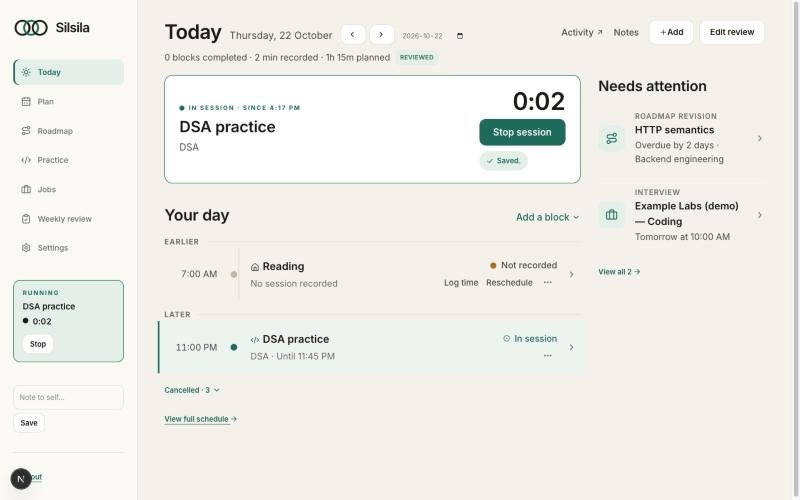
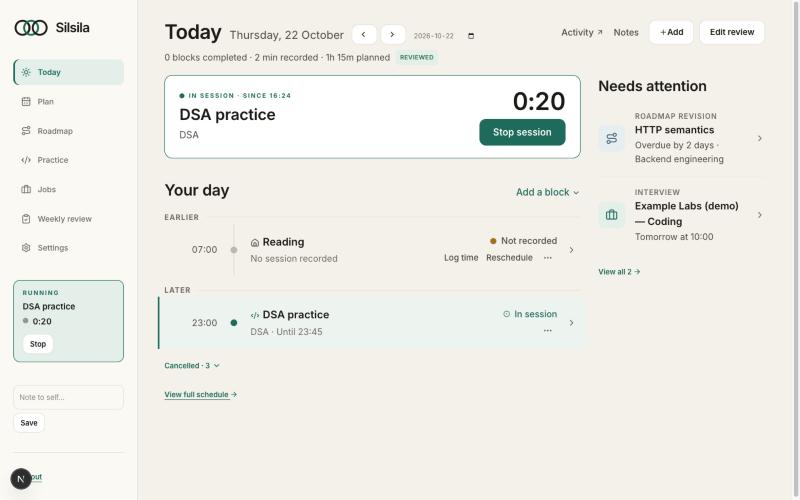
style(today): 24-hour times, source-coloured attention tiles and the reference date style

diff --git a/src/features/today/agenda.tsx b/src/features/today/agenda.tsx
@@ -18,12 +18,13 @@ import {
   ManualSessionForm,
 } from '@/features/schedule/forms';
 import { categoryGroup } from '@/features/review/domain';
-import { clock, dayKey, minutes } from '@/lib/time';
+import { dayKey, minutes } from '@/lib/time';
 import type { ActualSession, TimeBlock } from '@/generated/prisma/client';
 import {
   blockResolution,
   formatDuration,
   groupAgenda,
+  hhmm,
   resolutionText,
   type AgendaEntry,
   type RoundLike,
@@ -148,7 +149,7 @@ export function Agenda(props: Props) {
 function RoundRow({ round, zone }: { round: RoundLike; zone: string }) {
   return (
     <li className="agenda-row is-interview">
-      <span className="agenda-time">{clock(round.scheduledStart, zone)}</span>
+      <span className="agenda-time">{hhmm(round.scheduledStart, zone)}</span>
       <span className="agenda-dot" aria-hidden="true" />
       <div className="agenda-body">
         <h3 className="agenda-title">
@@ -158,7 +159,7 @@ function RoundRow({ round, zone }: { round: RoundLike; zone: string }) {
         <p className="agenda-meta">
           Interview
           {round.scheduledEnd
-            ? ` · Until ${clock(round.scheduledEnd, zone)}`
+            ? ` · Until ${hhmm(round.scheduledEnd, zone)}`
             : ''}
           {' · not on your schedule'}
         </p>
@@ -229,7 +230,7 @@ function BlockRow({
           : resolution === 'skipped'
             ? `Skipped${block.skipReason ? `: ${block.skipReason}` : ''}`
             : resolution === 'current' || resolution === 'in-progress'
-              ? `${context} · Until ${clock(block.plannedEnd, zone)}`
+              ? `${context} · Until ${hhmm(block.plannedEnd, zone)}`
               : `${context} · ${formatDuration(planned)}`;
   const panelMeta = [
     round ? `${round.company} · Interview` : categoryGroup(block.category),
@@ -241,7 +242,7 @@ function BlockRow({
       className={`agenda-row is-${resolution}${unresolved ? ' is-unresolved' : ''}`}
     >
       <span className="agenda-time">
-        {clock(block.plannedStart, zone)}
+        {hhmm(block.plannedStart, zone)}
         {dayKey(block.plannedEnd, zone) !== day && (
           <span className="sr-only">
             {' '}
@@ -303,7 +304,7 @@ function BlockRow({
       </div>
       <SidePanel id={panelId} title={block.title}>
         <p className="muted">
-          {clock(block.plannedStart, zone)}–{clock(block.plannedEnd, zone)} ·{' '}
+          {hhmm(block.plannedStart, zone)}–{hhmm(block.plannedEnd, zone)} ·{' '}
           {panelMeta}
         </p>
         {block.description && <p>{block.description}</p>}

diff --git a/src/features/today/domain.ts b/src/features/today/domain.ts
@@ -3,7 +3,12 @@
  * with their linked-interview identity, and the "needs attention" queue. No I/O, no
  * component code; everything here is covered by tests/today-domain.test.ts.
  */
-import { clock, dayKey, minutes, shortDate, weekdayDate } from '@/lib/time';
+import { dayKey, minutes, shortDate, weekdayDate } from '@/lib/time';
+import { formatInTimeZone } from 'date-fns-tz';
+
+/** Today reads times as "06:00" and "19:30", as the reference does. */
+export const hhmm = (date: Date, zone: string) =>
+  formatInTimeZone(date, zone, 'HH:mm');
 import type { Attention } from '@/features/jobs/domain';
 
 export type SessionLike = { id: string; startedAt: Date; endedAt: Date | null };
@@ -341,7 +346,7 @@ export function attentionItems(input: AttentionInput): AttentionItem[] {
         source: 'interview-prep',
         label: 'Interview prep',
         title: `${r.company} — ${r.title}`,
-        context: `Today at ${clock(r.scheduledStart, zone)} · ${r.openPrep} prep item${r.openPrep === 1 ? '' : 's'} open`,
+        context: `Today at ${hhmm(r.scheduledStart, zone)} · ${r.openPrep} prep item${r.openPrep === 1 ? '' : 's'} open`,
         href: `/jobs/${r.applicationId}#round-${r.id}`,
         tier: 1,
         due: +r.scheduledStart,
@@ -401,7 +406,7 @@ export function attentionItems(input: AttentionInput): AttentionItem[] {
           source: 'job',
           label: 'Interview',
           title: `${app.company} — ${reason.round.title}`,
-          context: `${isToday ? 'Today' : 'Tomorrow'} at ${clock(reason.round.scheduledStart, zone)}`,
+          context: `${isToday ? 'Today' : 'Tomorrow'} at ${hhmm(reason.round.scheduledStart, zone)}`,
           href: `/jobs/${app.id}#round-${reason.round.id}`,
           tier: isToday ? 3 : 4,
           due: +reason.round.scheduledStart,
@@ -471,7 +476,7 @@ export function attentionItems(input: AttentionInput): AttentionItem[] {
       source: 'notification',
       label: 'Reminder',
       title: n.title,
-      context: `${weekdayDate(dayKey(n.scheduledFor, zone))} · ${clock(n.scheduledFor, zone)}`,
+      context: `${weekdayDate(dayKey(n.scheduledFor, zone))} · ${hhmm(n.scheduledFor, zone)}`,
       href: null,
       tier: 3,
       due: +n.scheduledFor,

diff --git a/src/features/today/launcher.tsx b/src/features/today/launcher.tsx
@@ -6,9 +6,9 @@ import { LiveTimer } from '@/features/execution/live';
 import { stopUnlinkedAction } from '@/features/schedule/actions';
 import { ExecutionControls } from '@/features/schedule/forms';
 import { categoryGroup } from '@/features/review/domain';
-import { clock } from '@/lib/time';
+
 import type { TimeBlock } from '@/generated/prisma/client';
-import type { LauncherState, RoundLike } from './domain';
+import { hhmm, type LauncherState, type RoundLike } from './domain';
 import { PressButton } from './panels';
 
 const startsIn = (d: Date, now: Date) => {
@@ -60,7 +60,7 @@ export function Launcher({
   if (state.kind === 'running') {
     const block = state.block ? full(state.block.id) : null;
     const round = roundOf(block);
-    eyebrow = `In session · Since ${clock(state.session.startedAt, zone)}`;
+    eyebrow = `In session · Since ${hhmm(state.session.startedAt, zone)}`;
     title =
       state.session.title ??
       block?.title ??
@@ -103,11 +103,11 @@ export function Launcher({
       )
       .sort((a, b) => +a.plannedStart - +b.plannedStart)[0];
     if (after)
-      next = `Next: ${after.title} · ${clock(after.plannedStart, zone)}`;
+      next = `Next: ${after.title} · ${hhmm(after.plannedStart, zone)}`;
   } else if (state.kind === 'current' || state.kind === 'next') {
     const block = full(state.block.id)!;
     const round = roundOf(block);
-    eyebrow = `${state.kind === 'current' ? 'Now' : 'Next'} · ${clock(block.plannedStart, zone)}–${clock(block.plannedEnd, zone)}`;
+    eyebrow = `${state.kind === 'current' ? 'Now' : 'Next'} · ${hhmm(block.plannedStart, zone)}–${hhmm(block.plannedEnd, zone)}`;
     title = block.title;
     context = (
       <>
@@ -119,7 +119,7 @@ export function Launcher({
     );
     action = <ExecutionControls block={block} current launcher primaryOnly />;
     if (state.kind === 'current' && state.next)
-      next = `Next: ${state.next.title} · ${clock(state.next.plannedStart, zone)}`;
+      next = `Next: ${state.next.title} · ${hhmm(state.next.plannedStart, zone)}`;
   } else if (state.kind === 'reconcile') {
     eyebrow = 'Earlier today';
     title = 'Update earlier blocks';

diff --git a/src/app/globals.css b/src/app/globals.css
@@ -3288,7 +3288,8 @@ span > svg {
   letter-spacing: -0.02em;
 }
 .today-date {
-  font-size: 18px;
+  font-size: 20px;
+  font-weight: 400;
   color: var(--ink-2);
 }
 .today-title .day-nav {
@@ -3804,14 +3805,35 @@ a.attention-link:hover .attention-title {
   width: 48px;
   height: 48px;
   border-radius: 12px;
-  background: var(--tint);
-  color: var(--primary);
+  background: var(--tile-bg, var(--tint));
+  color: var(--tile-fg, var(--primary));
   display: inline-flex;
   align-items: center;
   justify-content: center;
 }
 .attention-count.is-phone {
   display: none;
+}
+/* One tint per source, as the owner's reference colours them. */
+.attention-row[data-source='practice'] {
+  --tile-bg: #eee6f7;
+  --tile-fg: #5b3e8e;
+}
+.attention-row[data-source='roadmap'] {
+  --tile-bg: var(--info-bg);
+  --tile-fg: var(--info-text);
+}
+.attention-row[data-source='notification'] {
+  --tile-bg: var(--warning-bg);
+  --tile-fg: var(--warning-text);
+}
+.attention-row[data-source='weekly'] {
+  --tile-bg: var(--success-bg);
+  --tile-fg: var(--success-text);
+}
+.dark .attention-row[data-source='practice'] {
+  --tile-bg: #2b2338;
+  --tile-fg: #b9a3dc;
 }
 .attention-main {
   display: grid;

diff --git a/tests/today-domain.test.ts b/tests/today-domain.test.ts
@@ -376,7 +376,7 @@ describe('needs attention', () => {
     expect(items[1].context).toBe('Overdue by 2 days');
     expect(items[2].context).toBe('Overdue by 1 day · Yellow');
     expect(items[4].context).toBe('Due today · Backend');
-    expect(items[0].context).toBe('Today at 4:00 PM · 2 prep items open');
+    expect(items[0].context).toBe('Today at 16:00 · 2 prep items open');
   });
   it('merges a reminder into the row keyed on the same entity and keeps its id', () => {
     const prep = round({

diff --git a/docs/WI-020-HANDOFF.md b/docs/WI-020-HANDOFF.md
@@ -4,11 +4,11 @@ Branch `feat/wi-020-today-agenda` from `main` at `be59255` (WI-019 merged, PR #2
 
 ## 1. Outcome
 
-- **Header.** "Today" (or "Past day" / "Upcoming day") with the date beside it and compact day navigation on the same line, and the utilities Activity ↗ · Notes (with the open count) · Review day (or Edit review once saved); under 1100 px they sit behind a labelled More. One factual line: "1 block completed · 59 min recorded · 2h 15m planned" (all categories, cancelled blocks excluded, clipped to the local day, a running session counted to now, sessions counted once). "Add a block" sits in the "Your day" heading as a link, with its `N` shortcut and its draft key.
-- **Launcher.** One compact surface, the primary action on the right with the live timer stacked above it while a session runs, a divider and the "Next: …" line under the context, and a fixed child order: a running session ("In session · Since 3:24 PM", the live timer, "Stop session"), else the eligible block covering now ("Now · 10:00–10:30 AM", "Start session", "Open prep" for an interview, "Next: …"), else the next eligible block ("Starts in 40 min", Start session allowed early), else "Update earlier blocks" when past blocks still need a decision, else a quiet "Nothing more planned" with Add a block. Secondary actions sit behind More. Running identity comes from the session record, so a reviewed day with a running session still shows the running controls.
-- **Agenda ("Your day").** An open list with a time gutter and a timeline rail with a dot per row (filled when done, teal when current, hollow later), grouped Earlier / Now / Later on today only (non-empty groups, each label with a rule, the Now rule in teal), the current block on a light teal wash with a narrow accent rule, completed rows quieter; each row shows the start time, the title with a neutral category icon, one meta line ("45 min recorded", "No session recorded", "Two pointers · 60 min", "Example Labs · Until 10:30 AM"), a status with an icon on the right (a check for Done, an amber dot for Not recorded, a teal dot for In session) and a chevron that opens the details panel; "View full schedule →" closes the list. A past block without a decision reads "Not recorded" (no session) or "Recorded · Needs update" (sessions exist) and offers Log time, Reschedule and More; skipped and cancelled blocks are never "missed". More exposes Complete, Skip and Cancel block with labels; Skip asks for its reason only after Skip is chosen. Cancelled blocks sit in a collapsed "Cancelled · N" disclosure with Reset and Details. Each row has a Details button; the row the launcher already controls has no second Start/Stop.
+- **Header.** "Today" (or "Past day" / "Upcoming day") with the date beside it (20 px, regular weight) and quiet day navigation on the same line, and the utilities Activity ↗ · Notes (with the open count) · Review day (or Edit review once saved); under 1100 px they sit behind a labelled More. One factual line: "1 block completed · 59 min recorded · 2h 15m planned" (all categories, cancelled blocks excluded, clipped to the local day, a running session counted to now, sessions counted once). "Add a block" sits in the "Your day" heading as a link, with its `N` shortcut and its draft key.
+- **Launcher.** One compact surface, the primary action on the right with the live timer stacked above it while a session runs, a divider and the "Next: …" line under the context, and a fixed child order: a running session ("In session · Since 15:24", the live timer, "Stop session"), else the eligible block covering now ("Now · 10:00–10:30", "Start session", "Open prep" for an interview, "Next: …"), else the next eligible block ("Starts in 40 min", Start session allowed early), else "Update earlier blocks" when past blocks still need a decision, else a quiet "Nothing more planned" with Add a block. Secondary actions sit behind More. Running identity comes from the session record, so a reviewed day with a running session still shows the running controls.
+- **Agenda ("Your day").** An open list with a time gutter and a timeline rail with a dot per row (filled when done, teal when current, hollow later), grouped Earlier / Now / Later on today only (non-empty groups, each label with a rule, the Now rule in teal), the current block on a light teal wash with a narrow accent rule, completed rows quieter; each row shows the start time, the title with a neutral category icon, one meta line ("45 min recorded", "No session recorded", "Two pointers · 60 min", "Example Labs · Until 10:30"), a status with an icon on the right (a check for Done, an amber dot for Not recorded, a teal dot for In session) and a chevron that opens the details panel; "View full schedule →" closes the list. A past block without a decision reads "Not recorded" (no session) or "Recorded · Needs update" (sessions exist) and offers Log time, Reschedule and More; skipped and cancelled blocks are never "missed". More exposes Complete, Skip and Cancel block with labels; Skip asks for its reason only after Skip is chosen. Cancelled blocks sit in a collapsed "Cancelled · N" disclosure with Reset and Details. Each row has a Details button; the row the launcher already controls has no second Start/Stop.
 - **Interviews.** A round linked to a block through `TimeBlock.interviewRoundId` is one row (the block's controls plus the interview context and Open prep); rounds without a block are their own rows and show their start time only when they have no end; nothing is deduplicated by title or time, and nothing is created from the page.
-- **Needs attention.** A flat list in the right rail, each row a neutral teal icon tile (amber for a reminder), the category label, the title, the due context and a chevron; five rows after deduplication, "Showing 5 of N", "View all N" opening a panel paged by twenty. Sources: interview prep today, job follow-ups and results needing logging, Practice revisions, roadmap revisions, unread due reminders, the Sunday weekly-review prompt. Notes and goals are not attention. Tiers: prep for an interview today → overdue follow-ups and results → due today (revisions, reminders, follow-ups) → upcoming; within a tier by due instant then stable id. A reminder merges into the row of the entity its `dedupeKey` names (INTERVIEW → round, JOB_FOLLOW_UP → application) and keeps its ids, so Mark read clears the reminder while the task stays; unmatched reminders stay as rows; Practice and roadmap revisions never merge. Each source loads with `Promise.allSettled`: a failed source is named while the rest show; the whole list sits behind its own Suspense and error boundary ("Couldn’t load attention items. Retry"), so the agenda never waits for it. Empty: "Nothing needs your attention."
+- **Needs attention.** A flat list in the right rail, each row an icon tile coloured by source as in the owner's reference (teal for Jobs and interview prep, lavender for Practice, blue for the roadmap, amber for a reminder, green for the weekly review), the category label, the title, the due context and a chevron; five rows after deduplication, "Showing 5 of N", "View all N" opening a panel paged by twenty. Sources: interview prep today, job follow-ups and results needing logging, Practice revisions, roadmap revisions, unread due reminders, the Sunday weekly-review prompt. Notes and goals are not attention. Tiers: prep for an interview today → overdue follow-ups and results → due today (revisions, reminders, follow-ups) → upcoming; within a tier by due instant then stable id. A reminder merges into the row of the entity its `dedupeKey` names (INTERVIEW → round, JOB_FOLLOW_UP → application) and keeps its ids, so Mark read clears the reminder while the task stays; unmatched reminders stay as rows; Practice and roadmap revisions never merge. Each source loads with `Promise.allSettled`: a failed source is named while the rest show; the whole list sits behind its own Suspense and error boundary ("Couldn’t load attention items. Retry"), so the agenda never waits for it. Empty: "Nothing needs your attention."
 - **Panels.** `src/features/today/panels.tsx`: one modal side panel at a time (440 px on the right, a full sheet under 700 px), rendered through a portal at the end of `<body>` so `inert` covers the shell, the navigation and the running strip; focus moves to the heading, Tab cycles inside, Escape and the Close button close, focus returns to the opener, page scroll is locked, the URL and the agenda scroll are untouched, and a navigation closes it. Children render only while open, so one block form is mounted at a time. Panels: block details (recorded sessions, Log time, Edit this day), Review day / Edit review, Activity (the 14-day chain with its day links), Notes (the existing list with Done, Remove and Undo), Needs attention (all rows, paged).
 - **Daily review.** Opened only from the header. The compact form keeps the action, the field names, validation and the per-day draft: the rating is five segments plus "No rating" (the clear), the reflection is one field, blocker and carry-to-tomorrow sit under More. Saving shows "Daily review saved." in the header, marks the summary line Reviewed, closes the panel, returns focus and clears the draft only after the server answered; a refusal keeps the panel open with the message. Future dates get no review button.
 - **Shared changes, opt-in.** `ExecutionControls` gains `launcher`, `hideStart` and `more` (defaults unchanged); `SecondaryActions` gains `always` and the two-step `SkipStep`; `DisclosureContext` is exported so a panel can offer `close()` to forms; `ExecutionRefresh` and `PageShortcuts` stay quiet while `data-panel-open` is set (interval and window-focus refresh, single-key shortcuts); `readNotificationAction` is the `ActionForm` twin of `readNotification` (several ids, one confirmation); `weeklyReviewOpen` lifts the Sunday rule into the review service.
@@ -29,28 +29,28 @@ Commits: `refactor(today): extract agenda and attention view models` (with the t
 
 ## 3. Verification
 
-| Check                                                                                          | Result                                                                                                                                                                                                                                                                                                                                                                                                                                                                                                                                                                                                                                  |
-| ---------------------------------------------------------------------------------------------- | --------------------------------------------------------------------------------------------------------------------------------------------------------------------------------------------------------------------------------------------------------------------------------------------------------------------------------------------------------------------------------------------------------------------------------------------------------------------------------------------------------------------------------------------------------------------------------------------------------------------------------------- |
-| `tests/today-domain.test.ts` (16 cases)                                                        | Summary clipping (overnight block, DST fall-back morning, sessions outside the day), unique sessions and a running one to now, cancelled excluded, zero planned with recorded work; launcher precedence, overlapping blocks (earliest start then id), reconcile vs done, running on a reviewed day; linked-interview identity, simultaneous rounds, missing end time (start only, one-hour grouping), grouping and cancelled, resolution states; attention tiers and order, reminder merge by entity with ids kept, Practice vs roadmap never merged, result-needed vs prep, paging by twenty                                           |
-| `pnpm test:ci` against `silsila_wi012_test`                                                    | Verified: 41 files, 284 tests                                                                                                                                                                                                                                                                                                                                                                                                                                                                                                                                                                                                           |
-| `prisma format`, `db:generate`, `lint`, `typecheck`, `build`, `docs:check`, `git diff --check` | see the gate line below                                                                                                                                                                                                                                                                                                                                                                                                                                                                                                                                                                                                                 |
-| Desktop, dev server, seed data (light and dark)                                                | Verified: header utilities and summary line; launcher next state ("Starts in 7 h 33 min"), `S` starts the block and the launcher turns teal in place with "In session · Since 3:24 PM", the timer, Stop session, the row "In session" without a second Start; after Stop the summary reads "1 min recorded"; an added 07:00 block reads "Not recorded" with Log time, Reschedule, More; More reveals Complete, Skip, Cancel block; Skip asks for a reason, then the row reads Skipped with the reason; Reset to planned; Cancel moves it under "Cancelled · 3"; Details panel opens with the sessions, Log time and Edit this day forms |
-| Panels                                                                                         | Verified: focus on the heading, the shell inert, `data-panel-open` set, body scroll locked, Escape closes, inert cleared, focus back on the opener; Tab from the last control wraps to the first and Shift+Tab back; the `N` shortcut does nothing while a panel is open                                                                                                                                                                                                                                                                                                                                                                |
-| Review                                                                                         | Verified: Review day panel with the six segments and the More disclosure; typing stores `silsila-draft:daily-review:2026-10-22`; Save answers "Daily review saved.", closes the panel, returns focus to "Edit review", the summary gets Reviewed and the draft is cleared; Edit review reopens with 4 and the notes, "No rating" saves a cleared rating                                                                                                                                                                                                                                                                                 |
-| Activity and Notes                                                                             | Verified: Activity shows the 14 rings and the caption; Notes shows the empty line (no open notes on the dev database)                                                                                                                                                                                                                                                                                                                                                                                                                                                                                                                   |
-| Needs attention                                                                                | Verified: "Roadmap revision · HTTP semantics · Overdue by 2 days" and "Interview · Example Labs — Coding · Tomorrow at 10:00 AM" with the merged reminder's Mark read; View all 2 opens the panel; Mark read answers "Marked read." and removes the button while the interview row stays                                                                                                                                                                                                                                                                                                                                                |
-| Past and future dates                                                                          | Verified: 2026-10-21 shows "Past day", one list without labels, no launcher, no rail, Review day available; 2026-10-29 shows "Upcoming day", no rail, no launcher, no review button, "Nothing planned yet"                                                                                                                                                                                                                                                                                                                                                                                                                              |
-| 1000 px                                                                                        | Verified: one column, launcher → attention summary with "View all 2" (preview hidden) → agenda; utilities behind More; no overflow                                                                                                                                                                                                                                                                                                                                                                                                                                                                                                      |
-| 390 px                                                                                         | Verified: header, summary, launcher with a full-width Start session and More, attention preview, agenda; the details panel is a full sheet (375 px); no horizontal overflow                                                                                                                                                                                                                                                                                                                                                                                                                                                             |
-| Dark mode                                                                                      | Verified with the `silsila-theme` cookie: launcher `rgb(31,30,25)`, row tint `#1b2e29`, titles `rgb(243,239,230)`; cookie reset to light                                                                                                                                                                                                                                                                                                                                                                                                                                                                                                |
-| Console                                                                                        | No errors on any state                                                                                                                                                                                                                                                                                                                                                                                                                                                                                                                                                                                                                  |
+| Check                                                                                          | Result                                                                                                                                                                                                                                                                                                                                                                                                                                                                                                                                                                                                                                |
+| ---------------------------------------------------------------------------------------------- | ------------------------------------------------------------------------------------------------------------------------------------------------------------------------------------------------------------------------------------------------------------------------------------------------------------------------------------------------------------------------------------------------------------------------------------------------------------------------------------------------------------------------------------------------------------------------------------------------------------------------------------- |
+| `tests/today-domain.test.ts` (16 cases)                                                        | Summary clipping (overnight block, DST fall-back morning, sessions outside the day), unique sessions and a running one to now, cancelled excluded, zero planned with recorded work; launcher precedence, overlapping blocks (earliest start then id), reconcile vs done, running on a reviewed day; linked-interview identity, simultaneous rounds, missing end time (start only, one-hour grouping), grouping and cancelled, resolution states; attention tiers and order, reminder merge by entity with ids kept, Practice vs roadmap never merged, result-needed vs prep, paging by twenty                                         |
+| `pnpm test:ci` against `silsila_wi012_test`                                                    | Verified: 41 files, 284 tests                                                                                                                                                                                                                                                                                                                                                                                                                                                                                                                                                                                                         |
+| `prisma format`, `db:generate`, `lint`, `typecheck`, `build`, `docs:check`, `git diff --check` | see the gate line below                                                                                                                                                                                                                                                                                                                                                                                                                                                                                                                                                                                                               |
+| Desktop, dev server, seed data (light and dark)                                                | Verified: header utilities and summary line; launcher next state ("Starts in 7 h 33 min"), `S` starts the block and the launcher turns teal in place with "In session · Since 15:24", the timer, Stop session, the row "In session" without a second Start; after Stop the summary reads "1 min recorded"; an added 07:00 block reads "Not recorded" with Log time, Reschedule, More; More reveals Complete, Skip, Cancel block; Skip asks for a reason, then the row reads Skipped with the reason; Reset to planned; Cancel moves it under "Cancelled · 3"; Details panel opens with the sessions, Log time and Edit this day forms |
+| Panels                                                                                         | Verified: focus on the heading, the shell inert, `data-panel-open` set, body scroll locked, Escape closes, inert cleared, focus back on the opener; Tab from the last control wraps to the first and Shift+Tab back; the `N` shortcut does nothing while a panel is open                                                                                                                                                                                                                                                                                                                                                              |
+| Review                                                                                         | Verified: Review day panel with the six segments and the More disclosure; typing stores `silsila-draft:daily-review:2026-10-22`; Save answers "Daily review saved.", closes the panel, returns focus to "Edit review", the summary gets Reviewed and the draft is cleared; Edit review reopens with 4 and the notes, "No rating" saves a cleared rating                                                                                                                                                                                                                                                                               |
+| Activity and Notes                                                                             | Verified: Activity shows the 14 rings and the caption; Notes shows the empty line (no open notes on the dev database)                                                                                                                                                                                                                                                                                                                                                                                                                                                                                                                 |
+| Needs attention                                                                                | Verified: "Roadmap revision · HTTP semantics · Overdue by 2 days" and "Interview · Example Labs — Coding · Tomorrow at 10:00 AM" with the merged reminder's Mark read; View all 2 opens the panel; Mark read answers "Marked read." and removes the button while the interview row stays                                                                                                                                                                                                                                                                                                                                              |
+| Past and future dates                                                                          | Verified: 2026-10-21 shows "Past day", one list without labels, no launcher, no rail, Review day available; 2026-10-29 shows "Upcoming day", no rail, no launcher, no review button, "Nothing planned yet"                                                                                                                                                                                                                                                                                                                                                                                                                            |
+| 1000 px                                                                                        | Verified: one column, launcher → attention summary with "View all 2" (preview hidden) → agenda; utilities behind More; no overflow                                                                                                                                                                                                                                                                                                                                                                                                                                                                                                    |
+| 390 px                                                                                         | Verified: header, summary, launcher with a full-width Start session and More, attention preview, agenda; the details panel is a full sheet (375 px); no horizontal overflow                                                                                                                                                                                                                                                                                                                                                                                                                                                           |
+| Dark mode                                                                                      | Verified with the `silsila-theme` cookie: launcher `rgb(31,30,25)`, row tint `#1b2e29`, titles `rgb(243,239,230)`; cookie reset to light                                                                                                                                                                                                                                                                                                                                                                                                                                                                                              |
+| Console                                                                                        | No errors on any state                                                                                                                                                                                                                                                                                                                                                                                                                                                                                                                                                                                                                |
 
 Screenshots in `docs/screenshots/wi-020/`: `01-desktop-idle-next.jpg`, `02-desktop-unresolved.jpg`, `03-desktop-running.jpg`, `04-desktop-review-panel.jpg`, `05-desktop-dark.jpg`, `06-desktop-empty-future.jpg`, `07-tablet-1000.jpg`, `08-mobile-390.jpg`, `09-mobile-panel.jpg`.
 
 ## 4. Known limitations and differences from the reference
 
 - Not exercised in the browser: a twelve-block day and a queue of twenty-plus attention items (the dev database has neither; ordering, deduplication and the twenty-row pages are covered by the domain tests), 200 % zoom and reduced motion (CSS only: the panel slide and the row and launcher transitions are inside `prefers-reduced-motion: no-preference`), a screen reader. Browser checks ran at 1000 px rather than exactly 1100 and 768; the breakpoints are 1099 and 700.
-- Against the reference image: the attention tiles are one neutral teal tint (amber only for reminders) instead of per-category colours, the brand mark is the existing component, times follow the app's 12-hour format, the day navigation stays beside the date, and "Add a block" lives in the agenda heading only (the reference also had a header "+ Add").
+- Against the reference image: the brand mark is the existing component and the day navigation stays beside the date (quiet chevrons and a date field). Times on Today read as 24-hour ("06:00", "19:30") through `hhmm` in the Today domain, as the reference does; the rest of the app keeps its 12-hour format. The tiles are coloured by source and the header carries "+ Add" and "Review day" as the reference shows.
 - The palette is the global WI-017 token set, as the owner decided; the only Today-scoped value is `--row-tint` (`#EDF3EF`, `#1B2E29` in dark).
 - "Starts in 40 min" and the Earlier / Now / Later split are rendered on the server and move with the five-minute refresh and the focus refresh (both pause while a panel is open); the timer is the only client clock.
 - Marking a merged reminder read keeps the underlying task row; the next refresh of the rail backfills the preview from the full queue.
